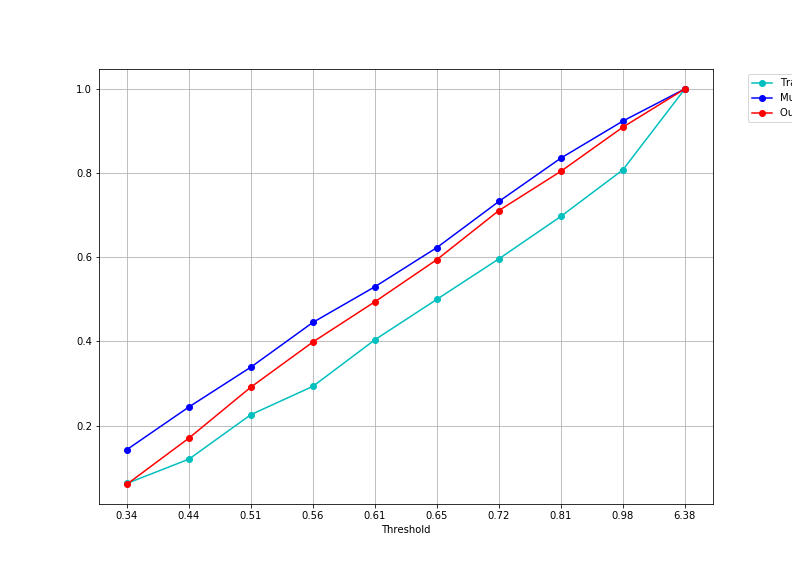
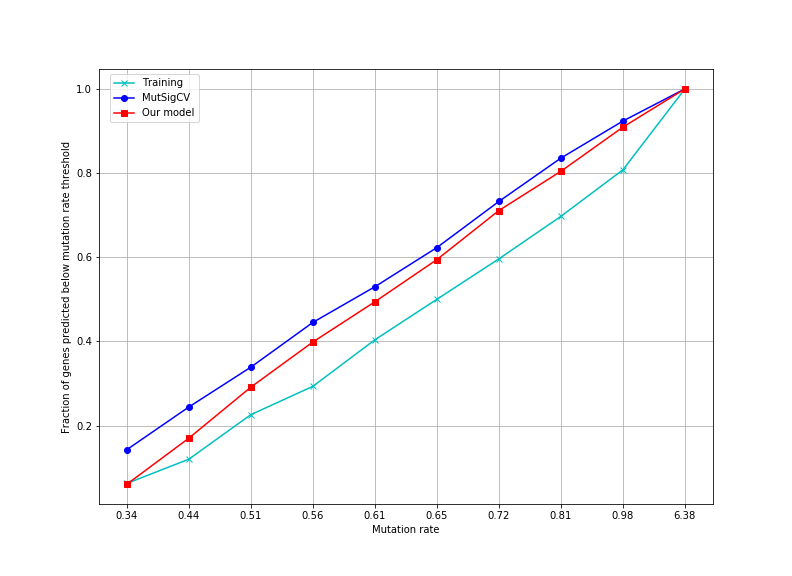
Changed plot

diff --git a/code/plotMutRate.py b/code/plotMutRate.py
@@ -114,7 +114,7 @@ for source in ["MutSigCV", "Our predictions"]:
                                    data_plot[data_plot["Source"] ==
                                              "Training"]['u'])
     print("Kolmogorov statistic for {} = {:0.3f}".format(source, KS_stat))
-    print("Kolmogorov statistic for {} = {:0.3f}".format(source, pval))
+    print("P-value for {} = {:0.3f}".format(source, pval))
 
 # Compare MutSigCV to Training set but vary threshold for q-value
 for thres in [0.010, 0.001, 0.0001, 0.00001]:
@@ -126,7 +126,8 @@ for thres in [0.010, 0.001, 0.0001, 0.00001]:
                                    data_plot[data_plot["Source"] ==
                                              "Training"]['u'])
     print("Number of genes = {}".format(len(fil_mutsig)))
-    print("Kolmogorov statistic for q-value threshold {} = {:0.3f}".format(thres, KS_stat))
+    print("Kolmogorov statistic for q-value threshold {} = {:0.3f}".format(
+            thres, KS_stat))
     print("p-value for q-value threshold {} = {:0.3f}".format(thres, pval))
     # Plot
     # For histogram uncomment next 3 lines
@@ -165,47 +166,103 @@ for thres in [0.010, 0.001, 0.0001, 0.00001]:
 
 
 # -------------------- Plot of fractions ------------------------ #
-consensus_list = [5, 4, 3]
+# Plots the fraction of genes predicted upon the total genes predicted
+# X-axis: Varying threshold of mutation rates
+# Y-axis: Fraction of genes predicted
+# MutSigCV:
+#  For c_cutoff == 5,4,3 -> all 602 genes predicted considered (p<=0.005,
+#  q<=0.01)
+#  For c_cutoff == 126, 60, 161, 429 -> genes predicted were ranked and top
+#  c_cutoff value number of genes considered
+# Our predictions:
+#  For c_cutoff == 5,126, 60 -> genes with consensus >= 5 considered
+#  For c_cutoff == 4, 161 -> genes with consensus >= 4 considered
+#  For c_cutoff == 3, 429 -> genes with consensus >= 3 considered
+# Training:
+#  All 208 genes were considered
+
+# Consensus list defined the way the data is filtered and ploted
+consensus_list = [5, 4, 3, 126, 60, 161, 429]
 for c_cutoff in consensus_list:
-    data_plot = data_all
-    data_plot = data_plot[(data_plot["Source"] == "Training") |
-                          (data_plot["Consensus"] >= c_cutoff)]
+    if c_cutoff in [126, 60, 161, 429]:
+        # MutSigCV predictions ranked and filtered
+        cols = ["Gene", "u", "Consensus", "Label", "Source"]
+        data_plot = data_mutsig.sort_values(by=["q", "p"]).iloc[:c_cutoff, :]
+        data_plot = data_plot[cols]
+        # Consensus defines how our model predictions are filtered
+        if c_cutoff == 126 or c_cutoff == 60:
+            consensus = 5
+        elif c_cutoff == 161:
+            consensus = 4
+        elif c_cutoff == 429:
+            consensus = 3
+        # Data concatenated
+        data_plot = pd.concat([data_plot,
+                               data_all[((data_all["Source"] == "Training") |
+                                        (data_all["Consensus"] >= consensus)) &
+                                        (data_all["Source"] != "MutSigCV")]])
+    else:
+        # Data filtered to retain what is considered for plotting
+        data_plot = data_all
+        data_plot = data_plot[(data_plot["Source"] == "Training") |
+                              (data_plot["Consensus"] >= c_cutoff)]
+
+    # Compare training dirstribution to MutSigCv and our prediciton
+    # distributions
+    for source in ["MutSigCV", "Our predictions"]:
+        KS_stat, pval = stats.ks_2samp(data_plot[data_plot["Source"] ==
+                                                 source]["u"],
+                                       data_plot[data_plot["Source"] ==
+                                                 "Training"]['u'])
+        print("Kolmogorov statistic for {} ({} genes)= {:0.3f}".format(source,
+              len(data_plot[data_plot["Source"] == source]["u"]), KS_stat))
+        print("P-value for {} ({} genes)= {:0.3f}".format(source,
+              len(data_plot[data_plot["Source"] == source]["u"]), pval))
+
+    # Define variables to bin data
     tot_size = len(data_plot)
     num_bins = 10
     size = int(round(tot_size / num_bins, 0))
+    # Calculate threshold for bins by sorting mutation rate and find
+    # equidistant u values
     thres_list = [round(u, 2) for idx, u in enumerate(sorted(data_plot["u"]))
-                  if (idx+1)%size == 0]
+                  if (idx + 1) % size == 0]
+    # Last bin threshold is max mutation rate
     if len(thres_list) < num_bins:
         thres_list.append(round(max(data_plot["u"]), 2))
     else:
         thres_list[num_bins-1] = round(max(data_plot["u"]), 2)
-    print(c_cutoff, tot_size, size, len(thres_list))
+#    print(c_cutoff, tot_size, size, len(thres_list))
+    # Initialise variable and populate table of fractions to be plotted
     cols = list(sorted(set(data_plot["Source"])))
     data_frac = pd.DataFrame(index=thres_list,
                              columns=cols)
     for thres in thres_list:
+        # Fractions calculated for all 3 (MutSigCv, Training, Our model)
         for source in cols:
             tot = len(data_plot[(data_plot["Source"] == source)]["u"])
             fraction = len(data_plot[(data_plot["Source"] == source) &
                                      (data_plot["u"] <= thres)]["u"]) / tot
             data_frac.loc[thres, source] = fraction
     # plot
-    fig = pyplot.figure(figsize=(11,8))
+    fig = pyplot.figure(figsize=(11, 8))
     ax1 = fig.add_subplot(111)
     ax1.plot(range(num_bins), data_frac["Training"], label='Training',
-             color='c', marker='o')
+             color='c', marker='x')
     ax1.plot(range(num_bins), data_frac["MutSigCV"], label='MutSigCV',
              color='b', marker='o')
     ax1.plot(range(num_bins), data_frac["Our predictions"],
-             label='Our predictions', color='r', marker='o')
-
+             label='Our model', color='r', marker='s')
     pyplot.xticks(range(num_bins), tuple(thres_list))
-    pyplot.xlabel('Threshold')
+    pyplot.xlabel('Mutation rate')
+    pyplot.ylabel('Fraction of genes predicted below mutation rate threshold')
     handles, labels = ax1.get_legend_handles_labels()
-    lgd = ax1.legend(handles, labels, loc='upper center', bbox_to_anchor=(1.15,1))
+    lgd = ax1.legend(handles, labels, loc='upper left',
+                     bbox_to_anchor=(0.01, 1))
     ax1.grid('on')
     os.chdir(PATH + "/mutsigCV/all_set")
     pyplot.savefig('fraction_plot_cv{}.png'.format(c_cutoff))
+    pyplot.close()
 
 # Plot Boxplot
 # read TSG and OG gene lists
